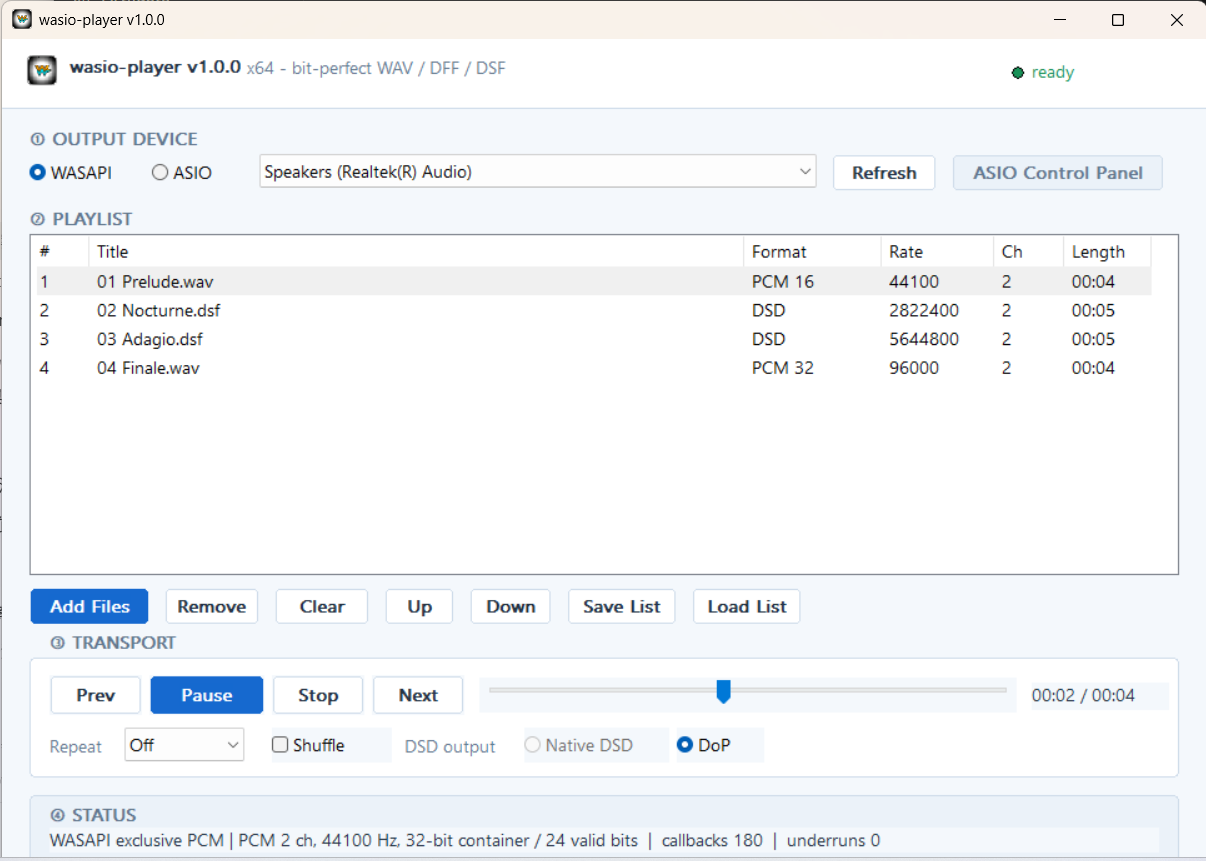
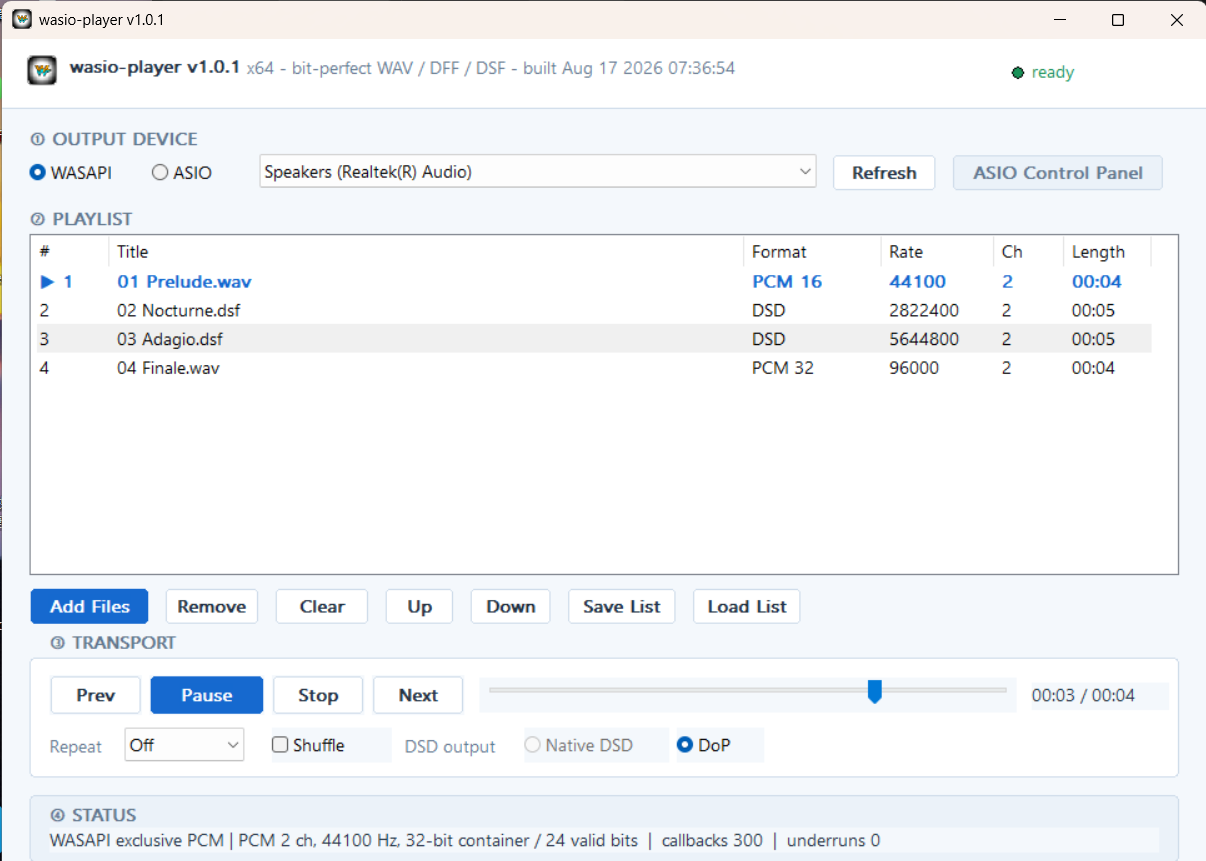
Refresh the screenshot and correct the DSD limits wording
The screenshot predated v1.0.1 and showed neither the now-playing marker nor
the version. The new one is taken from the shipped binary and deliberately has
the marker on row 1 while the selection sits on row 3, since that separation is
the point of the release.

"Native DSD over WASAPI is untested" was left over from when it was merely
unvalidated. It is now refused outright, and the README says why: the container
is indistinguishable from 32-bit PCM, so there is no way to confirm the device
entered DSD mode. Also describes the marker in the GUI section.

diff --git a/README.md b/README.md
@@ -53,6 +53,11 @@ Files can be dropped onto the window. Double-clicking a row plays it. The
 progress bar can be dragged to seek. Repeat is off, one or all; Shuffle covers
 every track once per round.
 
+The playing track is marked with `▶` and drawn in bold, which is separate from
+whichever row you have selected. Browsing the list, or picking a row to play
+next, never disturbs what is playing, and an automatic track change never takes
+the selection away from you.
+
 ## Playlists
 
 M3U8, UTF-8 without a BOM, `#EXTINF:<seconds>,<title>` followed by the path.
@@ -68,7 +73,11 @@ as unavailable, so a moved file is visible rather than silently dropped.
   without a click and for an accurate position.
 - WAV is integer PCM 16, 24 or 32-bit only - no float, no extensible channel
   mappings. DFF and DSF do not support DST compression or multichannel routing.
-- Native DSD over WASAPI is untested; ASIO is the verified path for DSD.
+- Native DSD is an ASIO path only. WASAPI is refused for it rather than left
+  untested: its Native DSD container is indistinguishable from 32-bit PCM, so
+  there is no way to confirm the device really entered DSD mode, and sending
+  raw DSD to a DAC that stayed in PCM is not worth risking. DSD over WASAPI
+  goes out as DoP.
 
 ## Licence
 
